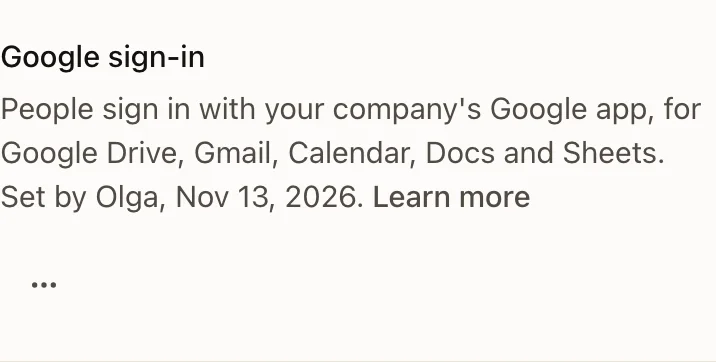
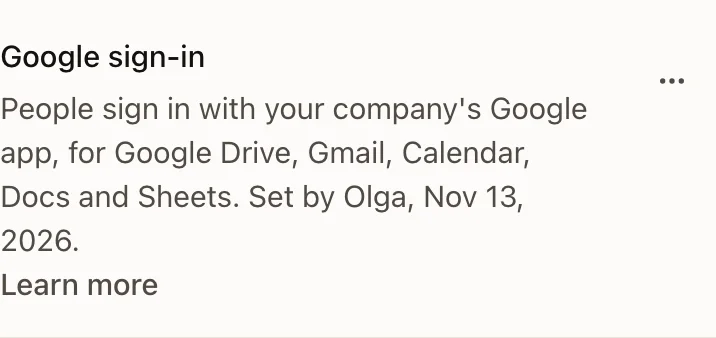
Google sign-in row: ⋯ beside the name on phones, a readable line under the open menu, addresses wrap at slashes
- The company's-app row is an inline SettingRow, so on a phone its ⋯ stays beside the
  row's name; its line keeps to max-w-md, so the open menu never covers it. CardMenu's
  start-on-phone option is gone again (not needed).
- A return address wraps only after a slash (<wbr>); Copy copies it as it is.
- Step 4: "After you save, …" and "{n} people will need to connect Google again", in
  all five languages; the guide follows, and says where ⋯ is on a phone.
- The guide's screenshots captured again.

diff --git a/web/src/components/integrations/AppConnectorCard.tsx b/web/src/components/integrations/AppConnectorCard.tsx
@@ -33,10 +33,8 @@ export function AppConnectorCard({ logo, name, line, lineTone, action, children,
 
 export interface CardMenuItem { label: string; onSelect: () => void; danger?: boolean; disabled?: boolean; testId: string }
 
-/** ⋯ on a card: the few things you rarely do with it (reconnect, disconnect). Arrow keys move, Esc and Tab close.
- * `startOnPhone`: the ⋯ is a SettingRow's control, which a phone puts at the start under the line, so the menu opens
- * from its left edge there (from its right edge on wider screens, where the control is on the right). */
-export function CardMenu({ label, items, testId, startOnPhone }: { label: string; items: CardMenuItem[]; testId: string; startOnPhone?: boolean }) {
+/** ⋯ on a card: the few things you rarely do with it (reconnect, disconnect). Arrow keys move, Esc and Tab close. */
+export function CardMenu({ label, items, testId }: { label: string; items: CardMenuItem[]; testId: string }) {
   const box = useRef<HTMLDivElement>(null)
   const [open, setOpen] = useState(false)
   const menuItems = () => [...(box.current?.querySelectorAll<HTMLElement>('[role="menuitem"]:not([disabled])') ?? [])]
@@ -64,7 +62,7 @@ export function CardMenu({ label, items, testId, startOnPhone }: { label: string
         <MoreHorizontal size={16} aria-hidden />
       </IconButton>
       {open && (
-        <div role="menu" aria-label={label} className={`absolute right-0 z-30 mt-1 ${startOnPhone ? 'max-md:right-auto max-md:left-0 ' : ''}w-max max-w-[min(20rem,calc(100vw-2rem))] min-w-40 rounded-xl border border-line bg-surface p-1 shadow-lg`} data-testid={`${testId}-items`}>
+        <div role="menu" aria-label={label} className="absolute right-0 z-30 mt-1 w-max max-w-[min(20rem,calc(100vw-2rem))] min-w-40 rounded-xl border border-line bg-surface p-1 shadow-lg" data-testid={`${testId}-items`}>
           {items.map((it) => (
             <button key={it.testId} type="button" role="menuitem" disabled={it.disabled}
               className={`block w-full rounded-lg px-3 py-1.5 text-left text-sm hover:bg-hover focus:bg-hover focus:outline-none disabled:opacity-50 ${it.danger ? 'text-danger' : ''}`}

diff --git a/web/src/i18n/ja.ts b/web/src/i18n/ja.ts
@@ -5391,7 +5391,7 @@ export const ja: Record<MessageKey, string> = {
   "gsign.error.notService": "このサーバーはホスティングサービス経由で Google にログインしていません。代わりに各 Google アプリのページで個別に設定してください。",
   "gsign.error.unsafe": "今はサーバーがファイルを安全に保管できません。サーバーの運用担当者に非公開フォルダーを確認してもらってください。",
   "gsign.confirm.what": "保存すると、Google ドライブ、Gmail、カレンダー、ドキュメント、スプレッドシートは会社のアプリでログインします。",
-  "gsign.confirm.people": "{n, plural, one {# 人が Google をもう一度接続します。} other {# 人が Google をもう一度接続します。}}",
+  "gsign.confirm.people": "{n, plural, one {# 人が Google をもう一度接続する必要があります。} other {# 人が Google をもう一度接続する必要があります。}}",
   "gsign.confirm.nobody": "まだここで Google を接続した人がいないため、接続し直す人もいません。",
   "gsign.confirm.shared": "{n, plural, one {共有の Google アカウントとチームに共有したドライブ # 件は、管理者が接続し直す必要があります。} other {共有の Google アカウントとチームに共有したドライブ # 件は、管理者が接続し直す必要があります。}}",
   "gsign.confirm.nothing": "「保存」を押すまで何も変わりません。",

diff --git a/web/src/i18n/es.ts b/web/src/i18n/es.ts
@@ -5390,8 +5390,8 @@ export const es: Record<MessageKey, string> = {
   "gsign.error.server": "La configuración propia del servidor ya fija una app de Google, así que no se puede cambiar aquí.",
   "gsign.error.notService": "Este servidor no inicia sesión en Google a través del servicio de alojamiento. Configure cada app de Google en su propia página.",
   "gsign.error.unsafe": "Ahora el servidor no puede guardar el archivo de forma segura. Pida a quien gestiona el servidor que revise su carpeta privada.",
-  "gsign.confirm.what": "A partir de entonces, Google Drive, Gmail, Calendar, Docs y Sheets inician sesión con la app de su empresa.",
-  "gsign.confirm.people": "{n, plural, one {# persona volverá a conectar Google.} other {# personas volverán a conectar Google.}}",
+  "gsign.confirm.what": "Después de guardar, Google Drive, Gmail, Calendar, Docs y Sheets inician sesión con la app de su empresa.",
+  "gsign.confirm.people": "{n, plural, one {# persona tendrá que volver a conectar Google.} other {# personas tendrán que volver a conectar Google.}}",
   "gsign.confirm.nobody": "Nadie ha conectado Google aquí todavía, así que nadie tiene que volver a conectarlo.",
   "gsign.confirm.shared": "{n, plural, one {# cuenta de Google compartida o Drive compartido con el equipo necesita que un administrador lo vuelva a conectar.} other {# cuentas de Google compartidas y Drives compartidos con el equipo necesitan que un administrador los vuelva a conectar.}}",
   "gsign.confirm.nothing": "No cambia nada hasta que elija Guardar.",

diff --git a/web/src/components/integrations/GoogleSignInRow.tsx b/web/src/components/integrations/GoogleSignInRow.tsx
@@ -112,11 +112,13 @@ export function GoogleSignInRow({ status, onChange }: { status: GoogleOwnAppStat
   }
   return (
     <>
-      <SettingRow heading title={t('gsign.title')} testId="gsign-row" attrs={{ 'data-state': active ? 'company' : 'trina' }}
-        desc={active ? [t('gsign.company'), setLine].filter(Boolean).join(' ') : t('gsign.trina')}
+      {/* the company's app: ⋯ stays beside the title on a phone too (inline, as a phone's settings row), and the line
+          stays narrower than the open menu leaves free (the page column caps the row), so the menu never covers it */}
+      <SettingRow heading inline={active} title={t('gsign.title')} testId="gsign-row" attrs={{ 'data-state': active ? 'company' : 'trina' }}
+        desc={active ? <span className="block max-w-md">{[t('gsign.company'), setLine].filter(Boolean).join(' ')}</span> : t('gsign.trina')}
         more={active ? t('gsign.addressMore') : undefined}
         control={active
-          ? <CardMenu label={t('gsign.more')} testId="gsign-menu" startOnPhone items={[
+          ? <CardMenu label={t('gsign.more')} testId="gsign-menu" items={[
               ...(status.available ? [{ label: t('gsign.replace'), onSelect: () => setDialog('replace'), testId: 'gsign-replace' }] : []),
               { label: t(status.canGoBack ? 'gsign.goBack' : 'gsign.remove'), onSelect: () => void remove(), danger: !status.canGoBack, testId: 'gsign-remove' },
             ]} />

diff --git a/web/src/i18n/id.ts b/web/src/i18n/id.ts
@@ -5434,8 +5434,8 @@ export const id: Record<MessageKey, string> = {
   "gsign.error.server": "Pengaturan server sendiri sudah menetapkan aplikasi Google, jadi tidak bisa diubah di sini.",
   "gsign.error.notService": "Server ini tidak masuk ke Google melalui layanan hosting. Atur setiap aplikasi Google di halamannya sendiri.",
   "gsign.error.unsafe": "Server tidak bisa menyimpan berkas dengan aman saat ini. Minta pengelola server memeriksa folder privatnya.",
-  "gsign.confirm.what": "Setelah itu Google Drive, Gmail, Calendar, Docs, dan Sheets masuk dengan aplikasi perusahaan Anda.",
-  "gsign.confirm.people": "{n, plural, one {# orang akan menghubungkan Google lagi.} other {# orang akan menghubungkan Google lagi.}}",
+  "gsign.confirm.what": "Setelah Anda menyimpan, Google Drive, Gmail, Calendar, Docs, dan Sheets masuk dengan aplikasi perusahaan Anda.",
+  "gsign.confirm.people": "{n, plural, one {# orang perlu menghubungkan Google lagi.} other {# orang perlu menghubungkan Google lagi.}}",
   "gsign.confirm.nobody": "Belum ada yang menghubungkan Google di sini, jadi tidak ada yang perlu menghubungkan lagi.",
   "gsign.confirm.shared": "{n, plural, one {# akun Google bersama atau Drive yang dibagikan ke tim perlu dihubungkan lagi oleh admin.} other {# akun Google bersama dan Drive yang dibagikan ke tim perlu dihubungkan lagi oleh admin.}}",
   "gsign.confirm.nothing": "Tidak ada yang berubah sampai Anda memilih Simpan.",

diff --git a/web/src/i18n/en.ts b/web/src/i18n/en.ts
@@ -5434,8 +5434,8 @@ export const en: Record<MessageKey, string> = {
   "gsign.error.server": "The server's own setup already sets a Google app, so it can't be changed here.",
   "gsign.error.notService": "This server doesn't sign in to Google through the hosting service. Set up each Google app on its own page instead.",
   "gsign.error.unsafe": "The server can't keep the file safely right now. Ask whoever runs the server to check its private folder.",
-  "gsign.confirm.what": "From then on Google Drive, Gmail, Calendar, Docs and Sheets sign in with your company's app.",
-  "gsign.confirm.people": "{n, plural, one {# person will connect Google again.} other {# people will connect Google again.}}",
+  "gsign.confirm.what": "After you save, Google Drive, Gmail, Calendar, Docs and Sheets sign in with your company's app.",
+  "gsign.confirm.people": "{n, plural, one {# person will need to connect Google again.} other {# people will need to connect Google again.}}",
   "gsign.confirm.nobody": "Nobody has connected Google here yet, so nobody needs to connect again.",
   "gsign.confirm.shared": "{n, plural, one {# shared Google account or Drive shared with the team needs an admin to reconnect it.} other {# shared Google accounts and Drives shared with the team need an admin to reconnect them.}}",
   "gsign.confirm.nothing": "Nothing changes until you choose Save.",

diff --git a/web/src/components/integrations/DriveConnector.tsx b/web/src/components/integrations/DriveConnector.tsx
@@ -179,7 +179,8 @@ export function ReturnAddress({ label, value, testId = 'drive-setup-redirect', c
     <div className="flex items-center gap-2 rounded-xl border border-line px-3 py-2" data-testid={`${testId}-row`}>
       <span className="min-w-0 flex-1">
         <span className="block text-xs text-muted">{label}</span>
-        <code className="block text-xs break-all" data-testid={testId}>{value}</code>
+        {/* a long address wraps only after a slash (each line ends at one); Copy copies `value` as it is */}
+        <code className="block text-xs break-words" data-testid={testId}>{value.split(/(?<=\/)(?!\/)/).map((part, i) => <span key={i}>{i > 0 && <wbr />}{part}</span>)}</code>
       </span>
       <Tooltip label={copied ? t('common.copied') : t('common.copy')}>
         <Button size="sm" variant="ghost" onClick={() => void copy(value)} aria-label={name} data-testid={`${testId === 'drive-setup-redirect' ? 'drive-setup' : testId}-copy`}>

diff --git a/docs/site/use/google-own-app.md b/docs/site/use/google-own-app.md
@@ -140,11 +140,11 @@ refused, with a line saying which one to add in Google Cloud.
 ![The dialog, Add it here: the button to upload the file downloaded from Google, a line saying it can also be dropped there, and Enter the ID and secret instead](../images/google-own-app/dialog-upload.webp "The dialog, step 3: Add it here")
 
 #### Check and save
-The last step, **Before you save**, says what changes, with your team's numbers: how many people will connect Google
-again, and that shared Google accounts and Drives shared with the team need an admin to reconnect them. Nothing
+The last step, **Before you save**, says what changes, with your team's numbers: how many people will need to
+connect Google again, and that shared Google accounts and Drives shared with the team need an admin to reconnect them. Nothing
 changes until you choose **Save**. **Cancel** leaves everything as it was.
 
-![The dialog, Before you save: how many people in Acme will connect Google again, a line about shared Google accounts and Drives shared with the team, and the Save and Cancel buttons](../images/google-own-app/dialog-confirm.webp "The dialog, step 4: Before you save")
+![The dialog, Before you save: how many people in Acme will need to connect Google again, a line about shared Google accounts and Drives shared with the team, and the Save and Cancel buttons](../images/google-own-app/dialog-confirm.webp "The dialog, step 4: Before you save")
 :::
 
 After **Save**, the row says "People sign in with your company's Google app, for Google Drive, Gmail, Calendar, Docs
@@ -153,9 +153,9 @@ and **Use Trina's Google sign-in again**. You set it once: the row is the same o
 
 ![The Google sign-in row after Save: People sign in with your company's Google app, set by an admin of Acme on a date, with the ⋯ menu open showing Replace and Use Trina's Google sign-in again](../images/google-own-app/row-company.webp "Google sign-in, with your company's app")
 
-On a phone the button goes under the line.
+On a phone the ⋯ stays beside the row's name, as in a phone's settings.
 
-![The Google sign-in row on a phone, 390 pixels wide: the line about your company's Google app, with the ⋯ button under it](../images/google-own-app/row-company-phone.webp "Google sign-in on a phone")
+![The Google sign-in row on a phone, 390 pixels wide: the line about your company's Google app, with the ⋯ button beside the row's name](../images/google-own-app/row-company-phone.webp "Google sign-in on a phone")
 
 ## What members see
 
